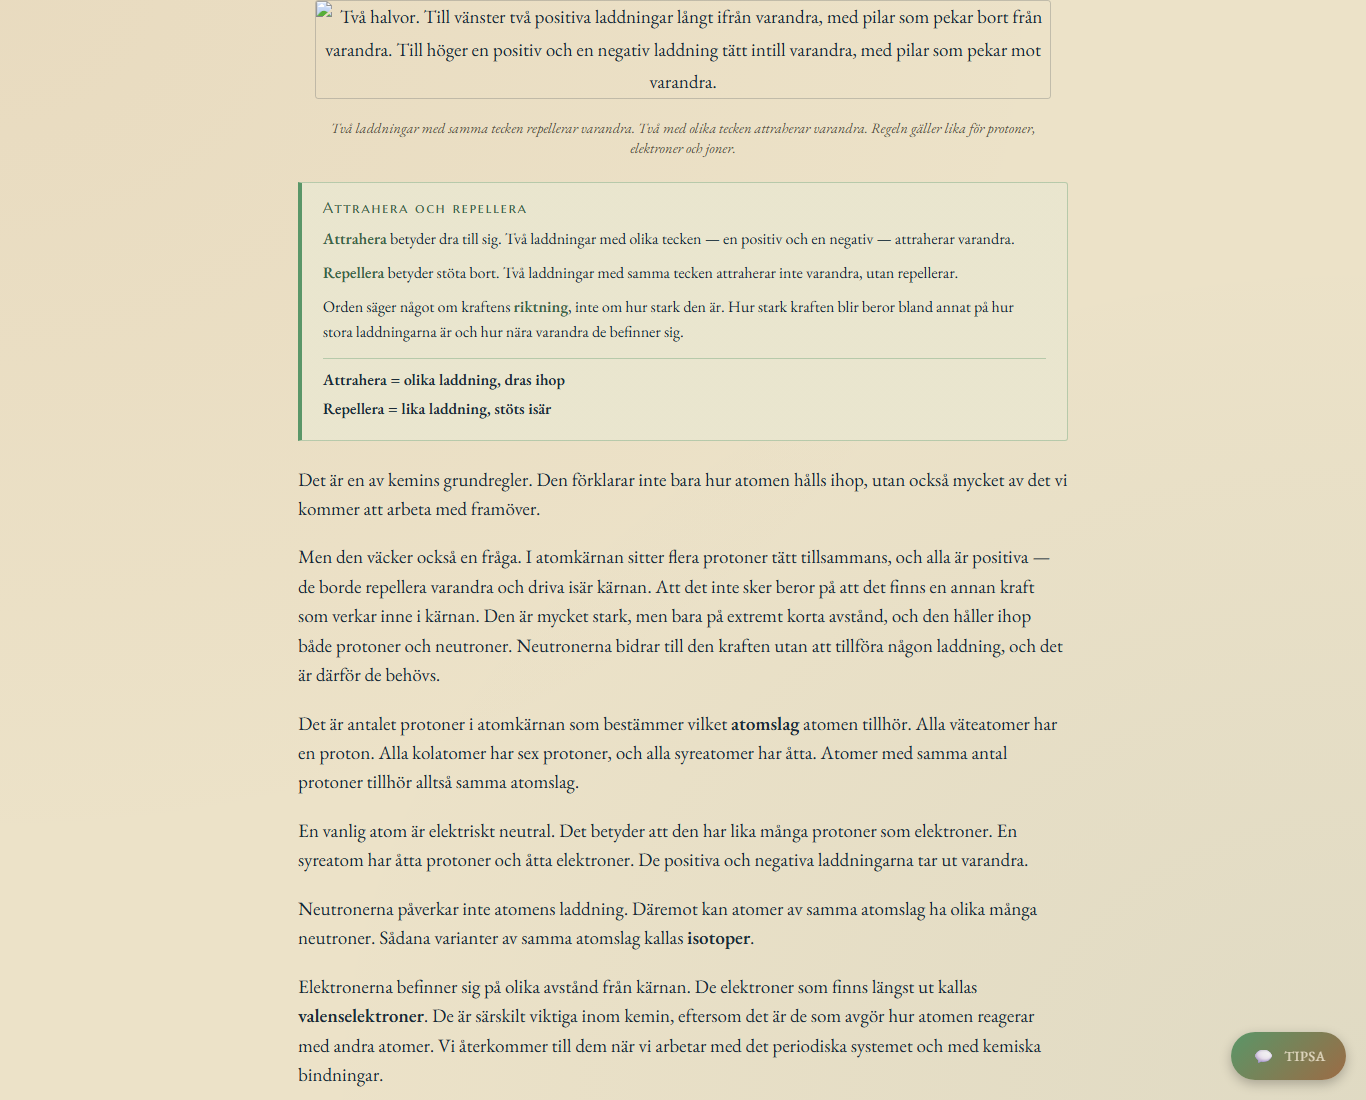
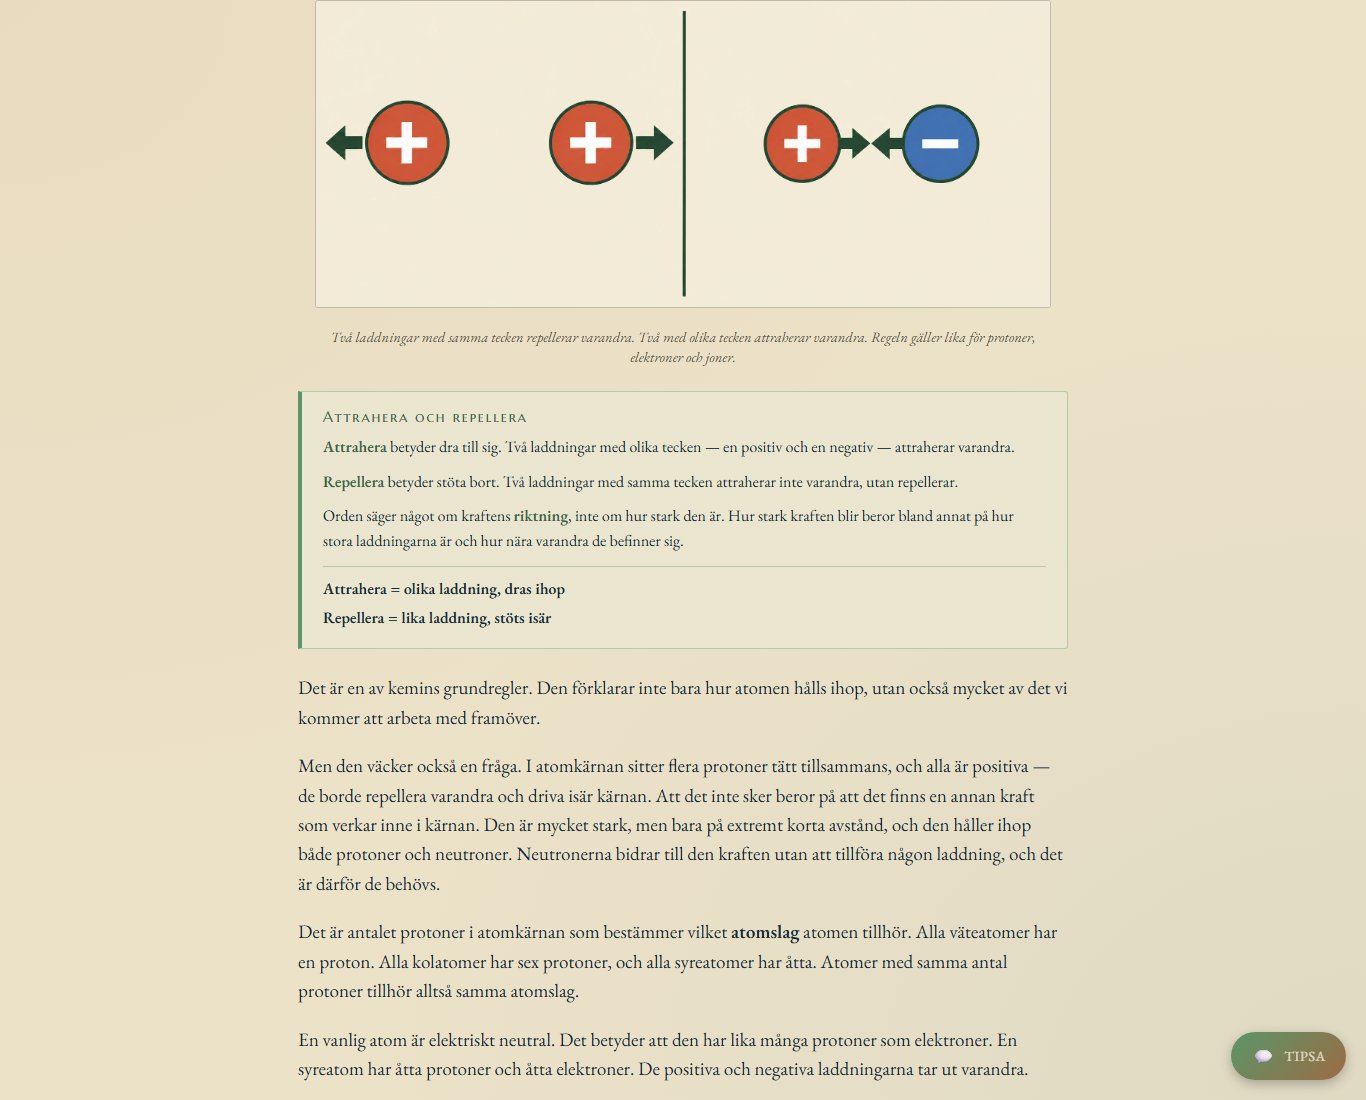
Avsnitt 1: faktaruta bort från Fördjupning, bilder inlagda med leveransens namn
Faktarutan Attrahera och repellera ligger på Enkel och Standard. De fyra
webp-bilderna omdöpta till leveransens filnamn (konvention: gemener,
bindestreck, inga åäö). Alla fyra laddar; skärmbilder uppdaterade.

Changed region(s): [[0.2152, 0.0, 0.7687, 0.9891]]

diff --git a/kapitel/syror-och-baser/delkapitel/repetition/avsnitt-1-atomer-molekyler-joner.html b/kapitel/syror-och-baser/delkapitel/repetition/avsnitt-1-atomer-molekyler-joner.html
@@ -224,17 +224,6 @@
           <p>Till slut räcker inte ens det. Hos de allra tyngsta atomslagen finns ingen kombination av protoner och neutroner som är stabil, och kärnan faller sönder av sig själv. De ämnena kallas <strong>radioaktiva</strong>. Uran och plutonium är exempel. Det som händer är alltså inte något mystiskt — det är samma balans mellan två krafter, där repulsionen till slut vinner.</p>
           <p><strong>Om modellen:</strong> standardtexten sa att neutronerna hjälper till. Det är sant men vagt. Det som faktiskt sker är att neutronerna bidrar till en kraft som håller ihop kärnan, utan att lägga till någon laddning som vill slita isär den. Den enklare bilden var inte fel — den var bara inte tillräckligt precis för att förklara varför bly behöver fler neutroner än helium.</p>
 
-          <aside class="faktaruta">
-            <h3>Attrahera och repellera</h3>
-            <p><strong>Attrahera</strong> betyder dra till sig. Två laddningar med olika tecken — en positiv och en negativ — attraherar varandra.</p>
-            <p><strong>Repellera</strong> betyder stöta bort. Två laddningar med samma tecken attraherar inte varandra, utan repellerar.</p>
-            <p>Orden säger något om kraftens <strong>riktning</strong>, inte om hur stark den är. Hur stark kraften blir beror bland annat på hur stora laddningarna är och hur nära varandra de befinner sig.</p>
-            <div class="faktaruta-sammanfattning">
-              <p><strong>Attrahera = olika laddning, dras ihop</strong></p>
-              <p><strong>Repellera = lika laddning, stöts isär</strong></p>
-            </div>
-          </aside>
-
           <h2>Vad "elektronskal" egentligen döljer</h2>
           <p>Vi har sagt att elektronerna håller sig på olika avstånd från kärnan, och nästa avsnitt kommer att prata om elektronskal. Bilder i läroböcker visar ofta elektroner som små kulor i cirklar runt kärnan, ungefär som planeter runt solen.</p>
           <p>Den bilden är användbar, men den är inte sann.</p>
